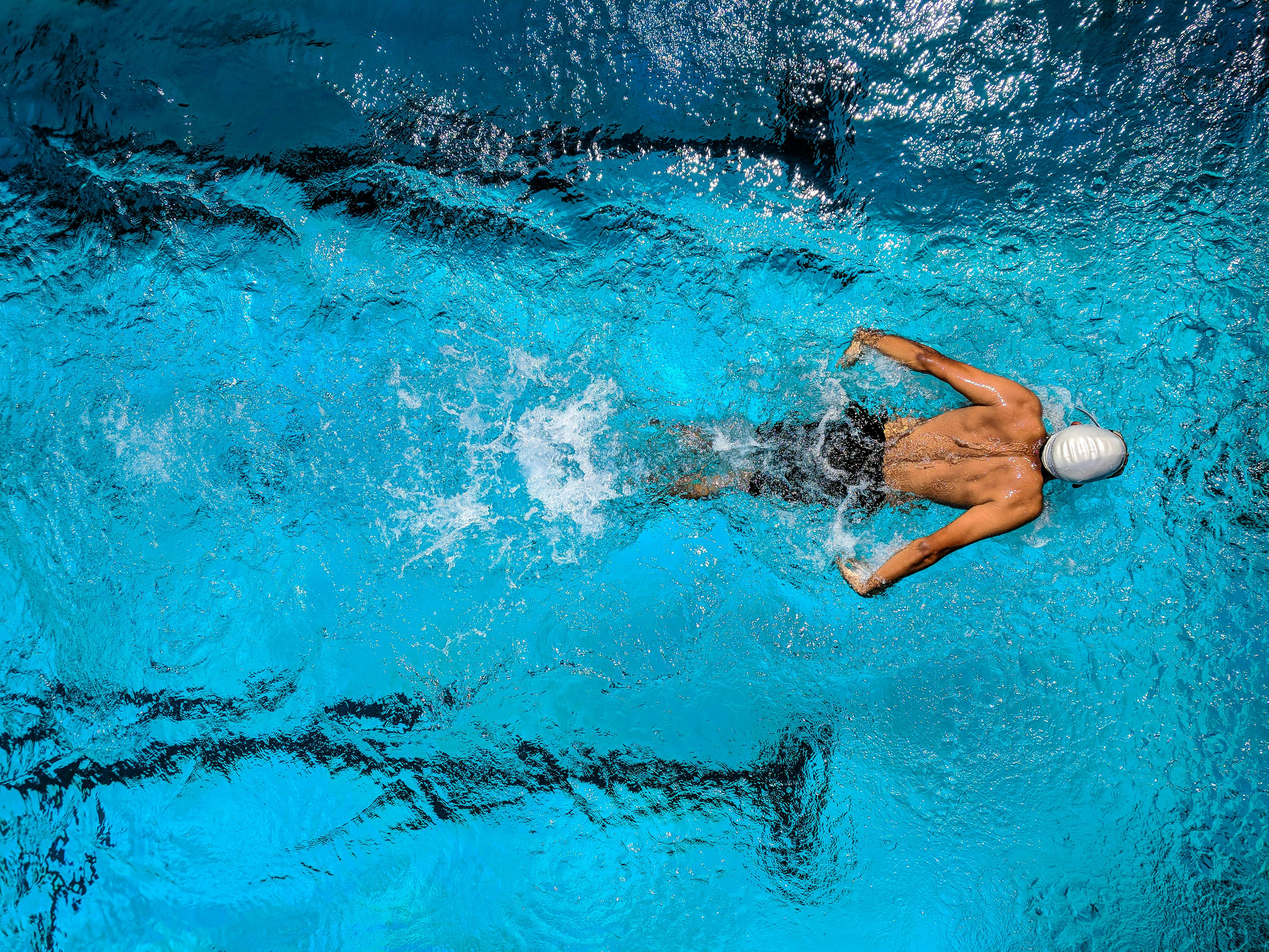
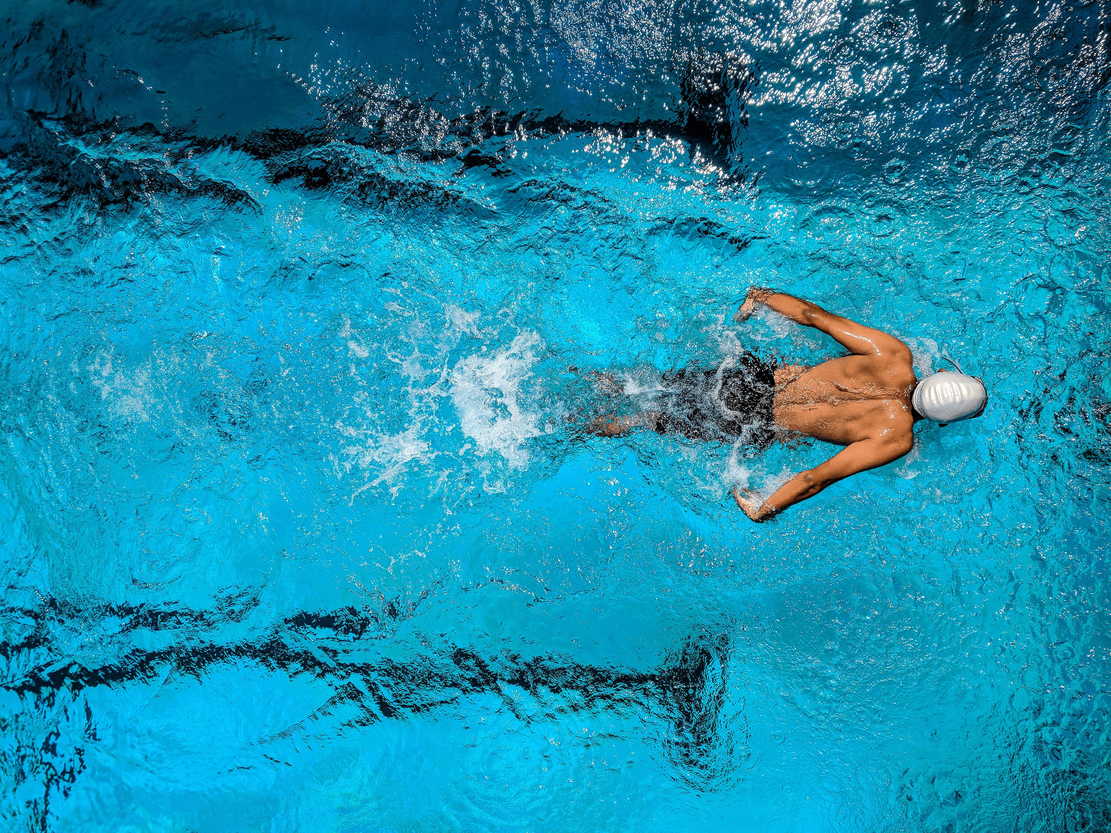
resize image

diff --git a/src/scenes/global/Footer.jsx b/src/scenes/global/Footer.jsx
@@ -1,5 +1,5 @@
 import Link from "next/link";
-import { FaFacebook, FaInstagram, FaPinterest } from "react-icons/fa";
+import { FaFacebook, FaInstagram, FaLinkedin } from "react-icons/fa";
 
 export default function Footer() {
   return (
@@ -88,7 +88,7 @@ export default function Footer() {
                     href="https://pinterest.com"
                     className="text-blue-200 hover:text-white transition duration-300"
                   >
-                    <FaPinterest size={28} />
+                    <FaLinkedin size={28} />
                   </a>
                 </div>
               </div>

diff --git a/src/scenes/homepage/LandingPage.jsx b/src/scenes/homepage/LandingPage.jsx
@@ -75,7 +75,7 @@ export default function LandingPage() {
               Contacter-nous
             </Link>
             <Link
-              href="/about"
+              href="#about"
               className="bg-transparent border-2 border-white text-white py-3 px-8 rounded-lg text-lg font-semibold hover:bg-white/10 transition-all duration-300"
             >
               En savoir plus
